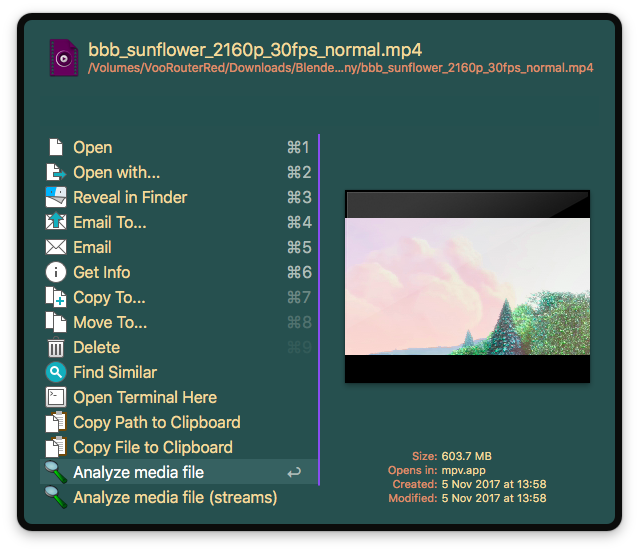
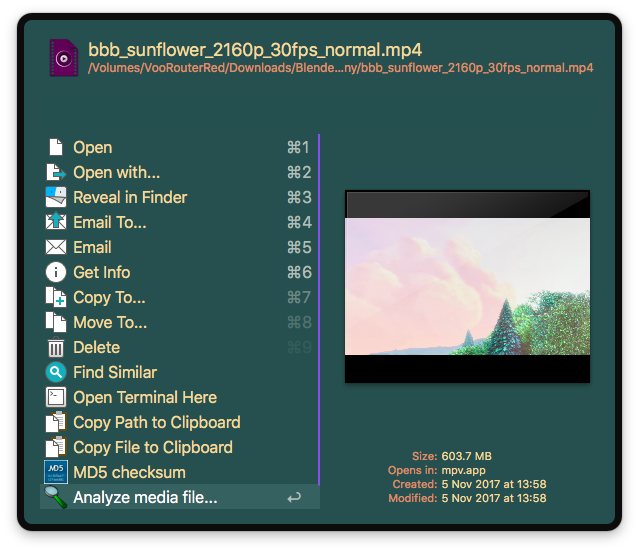
Submenu (#2)
* Reworked

- submenu
- handles multiple selected video files

* Update README.md

* Update README.md

Changed region(s): [[0.0595, 0.8315, 0.4757, 0.9239], [0.446, 0.8315, 0.4757, 0.8623]]

diff --git a/README.md b/README.md
@@ -9,23 +9,25 @@
    - You could do it for example by using [Homebrew][3] and installing [ffmpeg package.][4]
    - ````brew install ffmpeg````
 2) Install [alfred-ffprobe wokflow.][5]
+3) All further updates are handled automatically.
 
 ## Usage
 
-Select a video file in finder and invoke the alfred file actions <kbd>⌃⌘\\</kbd>.
+Select a video file or more video files in finder and invoke the alfred file actions <kbd>⌃⌘\\</kbd>.
 
 ![Alfred actions screenshot](doc/images/alfred-actions.png?raw=true "")
 
-Choose the `Analyze media file` in displayed menu and the information about selected video will be shown.
+Choose the `Analyze media file...` in displayed menu and select appropriate action.
+
+![Alfred actions submenu screenshot](doc/images/alfred-actions-submenu.png?raw=true "")
+
+Then, the information about selected videos will be shown. The full ffprobe output could be retrieved by selecting the option `Full output`.
 
 ![alfred-ffprobe results screenshot](doc/images/alfred-ffprobe-results.png?raw=true "")
 
 -------------------
 
-From time to time, full results could be annoying, so there is another option just showing the results describing inner streams `Analyze media file (stream)`.
-
-![Alfred actions screenshot](doc/images/alfred-actions-streams.png?raw=true "")
-
+From time to time, full results could be annoying, so there is another option just showing the results describing inner streams. Just select the option `Just streams`.
 Output is much more well-arranged.
 
 ![alfred-ffprobe results screenshot](doc/images/alfred-ffprobe-results-streams.png?raw=true "")
